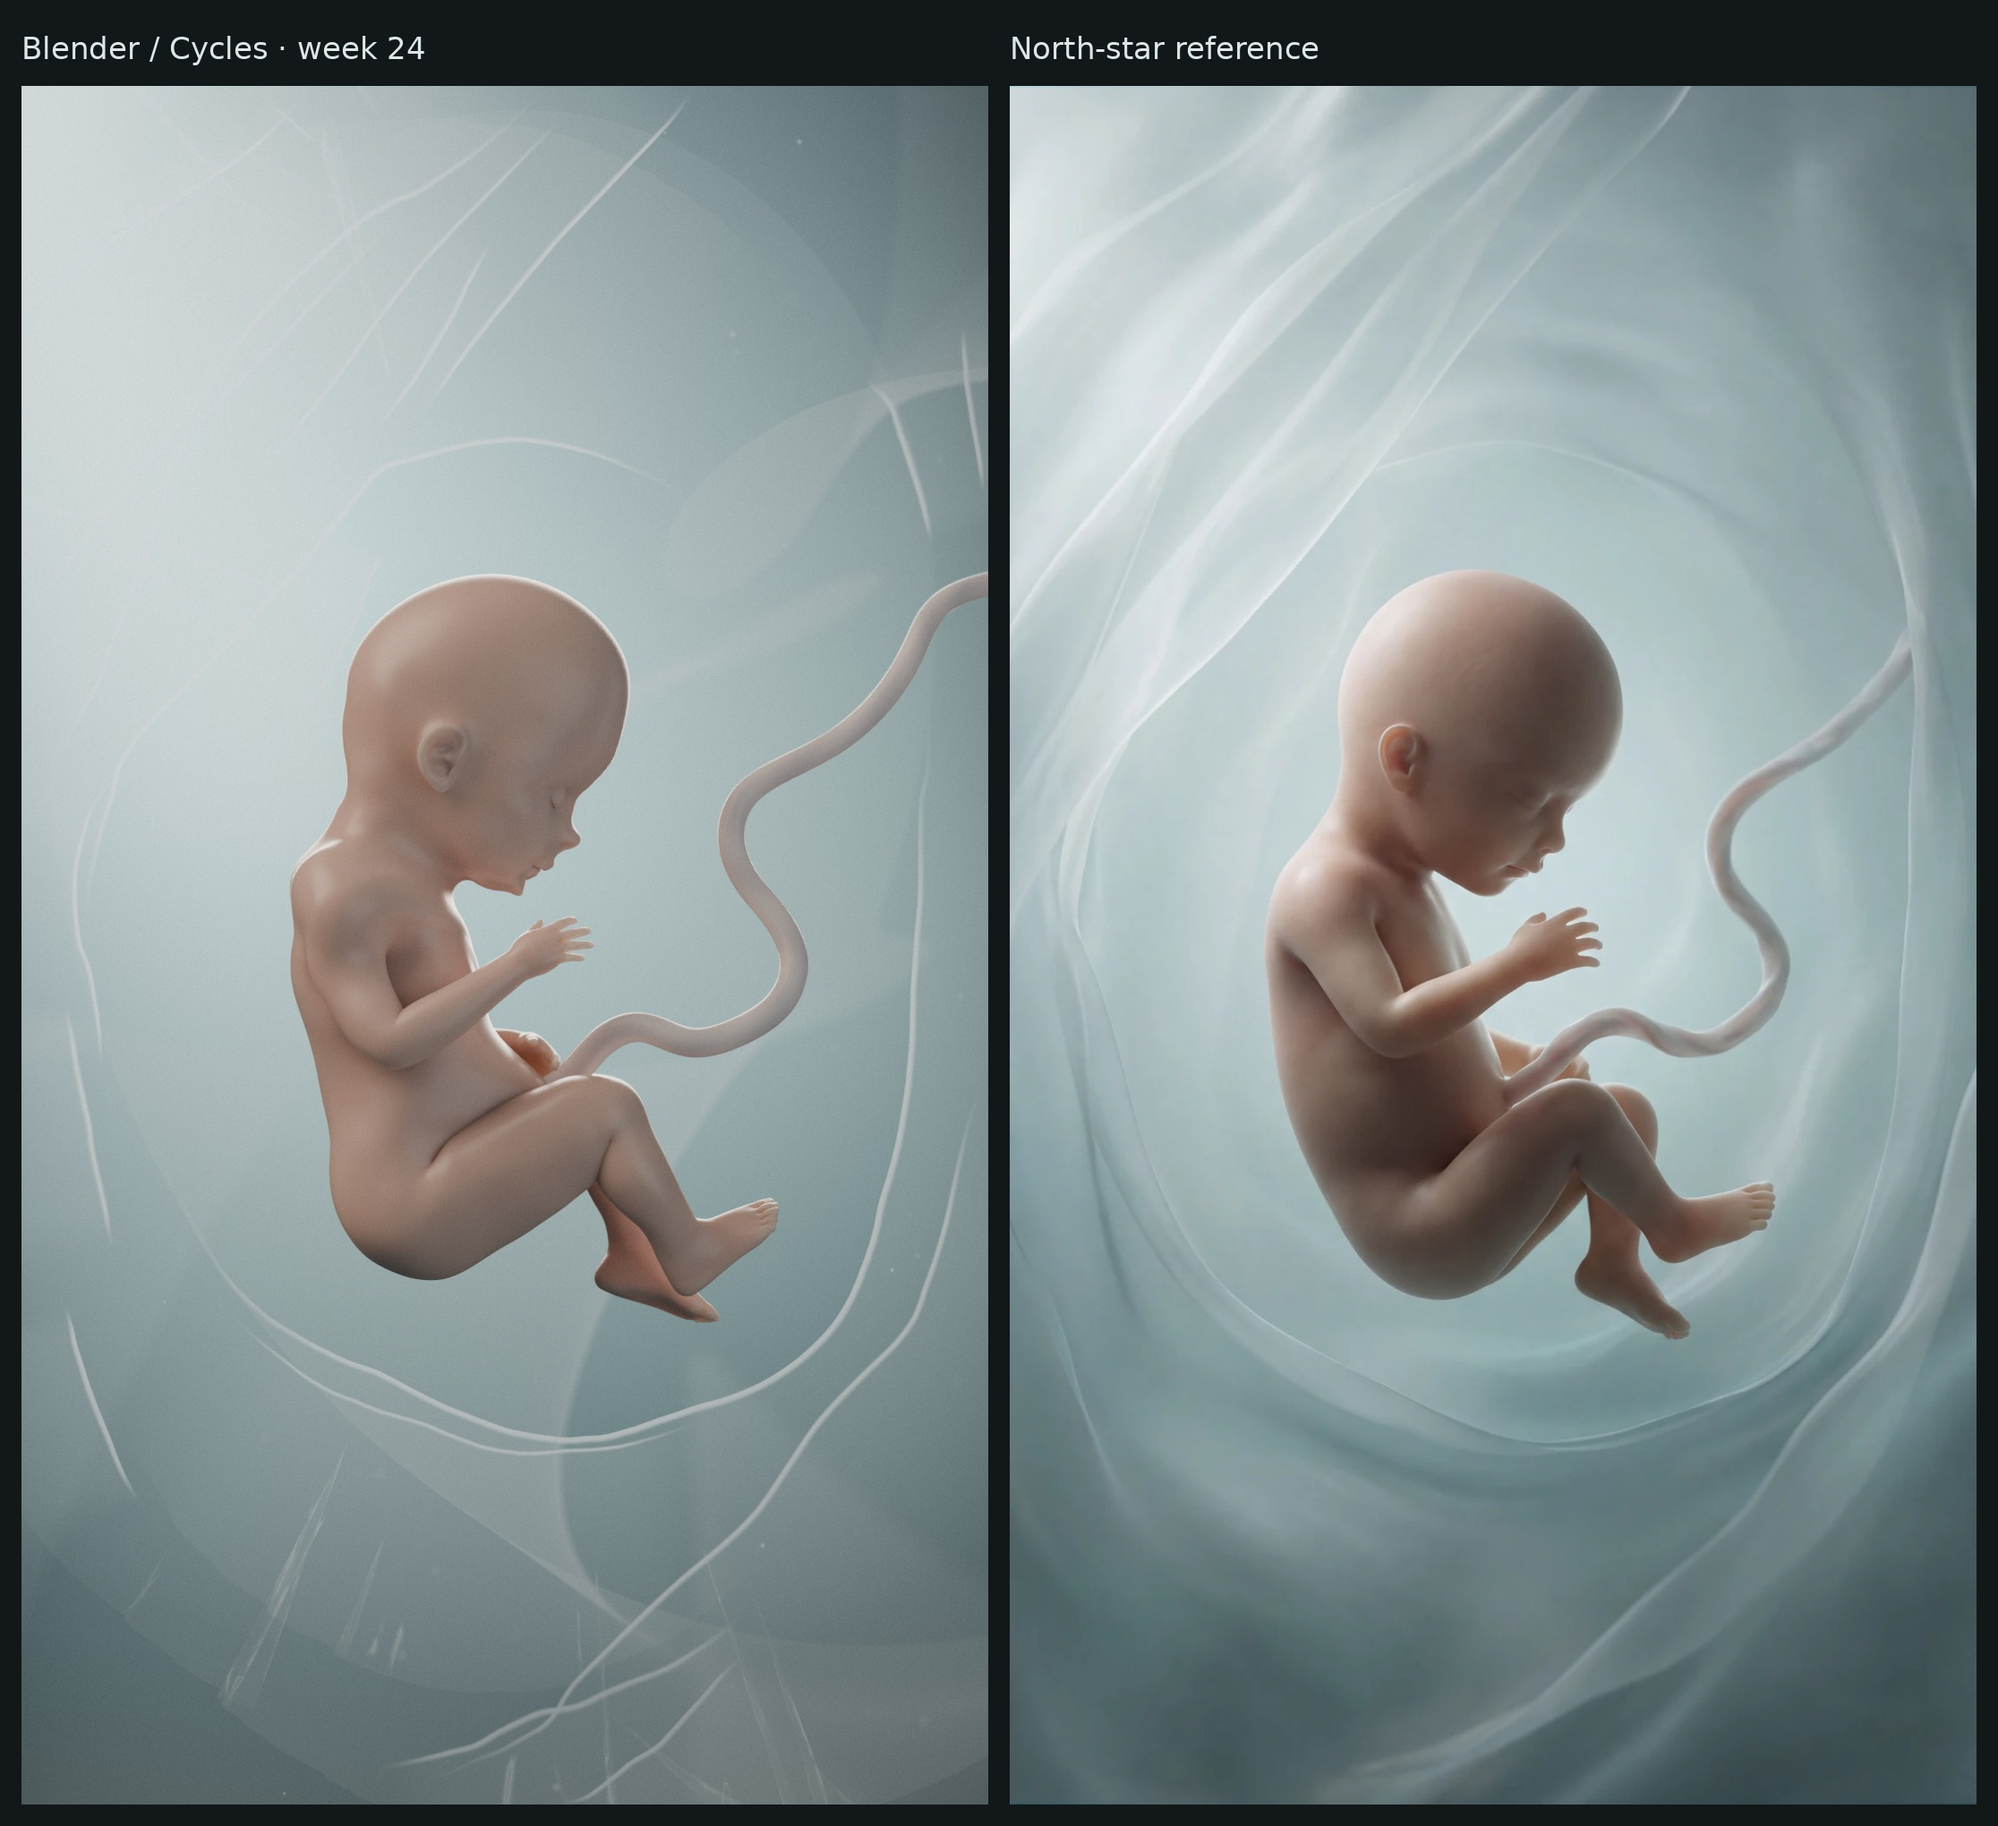
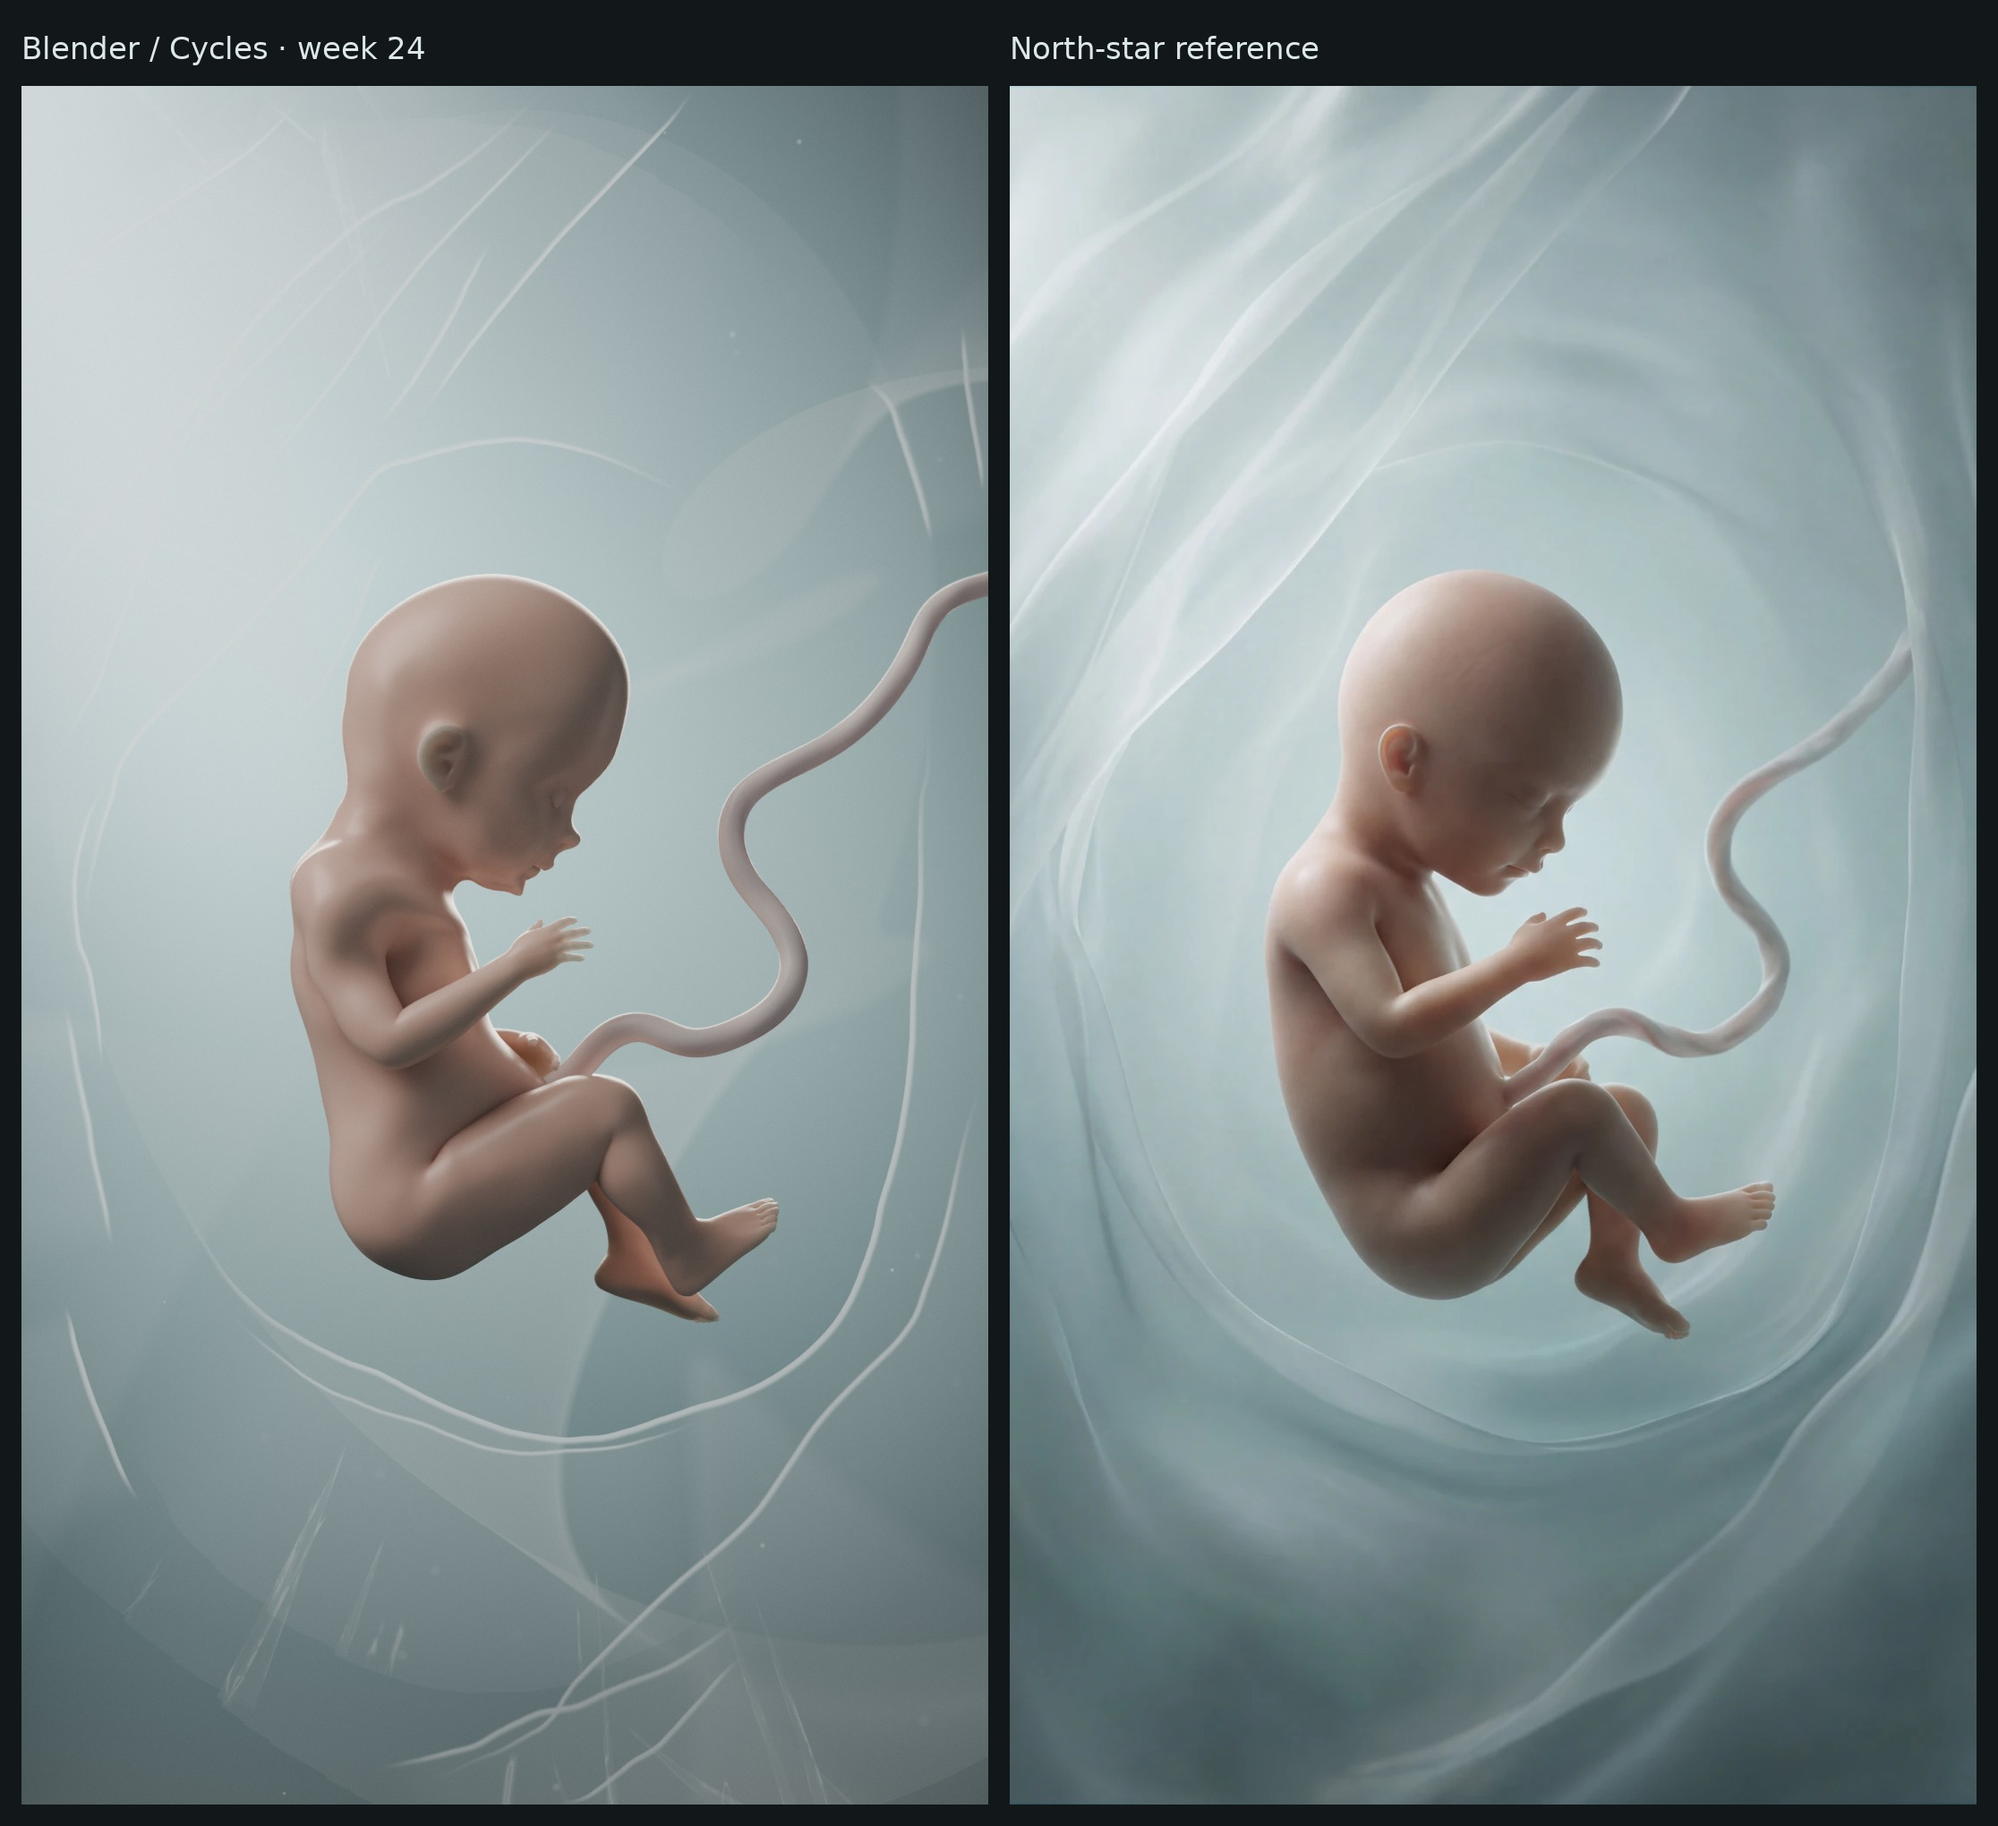
Fetal Growth Explorer: reference skin tone and contrast
Measured against the reference fetus (traced mask): key 90 W neutral-warm,
fill 3 W, ambient 0.14 for the reference's wider tonal range (p10/p90
88/176 vs 74/186); less red subsurface bleed and a less saturated albedo
(G/R 0.799 vs 0.80); low-frequency rose/beige mottling in rest space;
lighter grain.

Claude-Session: https://claude.ai/code/session_012GPESLoAzkgxi7MKnnsx3V

diff --git a/fetal-growth-explorer/blender/scripts/fge/lookdev.py b/fetal-growth-explorer/blender/scripts/fge/lookdev.py
@@ -89,8 +89,8 @@ def make_world(scene) -> None:
     nt.nodes.clear()
     out = nt.nodes.new("ShaderNodeOutputWorld")
     bg = nt.nodes.new("ShaderNodeBackground")
-    bg.inputs["Color"].default_value = rgba("#9DB3B5")
-    bg.inputs["Strength"].default_value = 0.16
+    bg.inputs["Color"].default_value = rgba("#9DB8BC")
+    bg.inputs["Strength"].default_value = 0.14  # the amniotic surround tints the shadow side teal, as in the reference
     nt.links.new(bg.outputs["Background"], out.inputs["Surface"])
 
 
@@ -114,9 +114,9 @@ def make_lights(target=(0.0, 0.0, 0.02)):
     # crown and back read bright and the face, turned down and away, falls
     # into soft shade, the reference's light balance. Size 1.6 m keeps the
     # terminator across the skull soft.
-    area_light("LGT_Key", (-1.13, -0.30, 1.13), target, "#FFDCC2", 70.0, 1.6, col=col)
+    area_light("LGT_Key", (-1.13, -0.30, 1.13), target, "#FFE6D8", 90.0, 1.6, col=col)
     # Neutral fill low from the front-right lifts the face and belly.
-    area_light("LGT_Fill", (0.90, -1.00, 0.10), target, "#E2E4DF", 14.0, 1.4, col=col)
+    area_light("LGT_Fill", (0.90, -1.00, 0.10), target, "#E2E4DF", 3.0, 1.4, col=col)
     # Soft back light straight behind: a thin environment-like edge all round,
     # and SSS glow through ears, fingers and toes.
     area_light("LGT_Rim", (0.05, 1.00, 0.30), target, "#FFE2D0", 80.0, 0.8, col=col)
@@ -183,9 +183,9 @@ def skin_material(name="MAT_Skin", translucency: float = 1.0, vessels: float = 1
     ao.samples = 8
     ramp = nt.nodes.new("ShaderNodeValToRGB")
     ramp.color_ramp.elements[0].position = 0.25
-    ramp.color_ramp.elements[0].color = rgba("#B08A80")
+    ramp.color_ramp.elements[0].color = rgba("#B3958D")
     ramp.color_ramp.elements[1].position = 1.0
-    ramp.color_ramp.elements[1].color = rgba("#DAB8AE")
+    ramp.color_ramp.elements[1].color = rgba("#DDC4BC")
     nt.links.new(ao.outputs["AO"], ramp.inputs["Fac"])
     # Faint vessel network (Voronoi cell edges, broken up by noise), strongest on the scalp.
     rest = _rest_coords(nt)
@@ -231,10 +231,25 @@ def skin_material(name="MAT_Skin", translucency: float = 1.0, vessels: float = 1
     tint.blend_type = "MIX"
     tint.inputs["B"].default_value = rgba("#A8707A")
     nt.links.new(m3.outputs["Value"], tint.inputs["Factor"])
-    nt.links.new(ramp.outputs["Color"], tint.inputs["A"])
+    # soft mottling: large, low-contrast patches between a cooler rose and a warmer beige
+    mottle = nt.nodes.new("ShaderNodeTexNoise")
+    mottle.inputs["Scale"].default_value = 18.0
+    mottle.inputs["Detail"].default_value = 2.0
+    nt.links.new(rest, mottle.inputs["Vector"])
+    mot_mix = nt.nodes.new("ShaderNodeMix")
+    mot_mix.data_type = "RGBA"
+    mot_mix.blend_type = "OVERLAY"
+    mot_mix.inputs["Factor"].default_value = 0.35
+    nt.links.new(ramp.outputs["Color"], mot_mix.inputs["A"])
+    mot_ramp = nt.nodes.new("ShaderNodeValToRGB")
+    mot_ramp.color_ramp.elements[0].color = rgba("#B8888E")
+    mot_ramp.color_ramp.elements[1].color = rgba("#D8B49A")
+    nt.links.new(mottle.outputs["Fac"], mot_ramp.inputs["Fac"])
+    nt.links.new(mot_ramp.outputs["Color"], mot_mix.inputs["B"])
+    nt.links.new(mot_mix.outputs["Result"], tint.inputs["A"])
     nt.links.new(tint.outputs["Result"], bsdf.inputs["Base Color"])
     bsdf.inputs["Subsurface Weight"].default_value = 0.85
-    bsdf.inputs["Subsurface Radius"].default_value = (1.0, 0.55, 0.4)  # less red bleed: the reference skin is pink-beige, not orange
+    bsdf.inputs["Subsurface Radius"].default_value = (1.0, 0.7, 0.55)  # less red bleed: the reference skin is pink-beige, not orange
     bsdf.inputs["Subsurface Scale"].default_value = 0.004 * translucency
     bsdf.inputs["Subsurface IOR"].default_value = 1.38
     bsdf.inputs["Subsurface Anisotropy"].default_value = 0.4

diff --git a/fetal-growth-explorer/blender/scripts/post.py b/fetal-growth-explorer/blender/scripts/post.py
@@ -31,7 +31,7 @@ LOOK = {
     "shadow_tint": (0.30, 0.40, 0.41),
     "contrast": 1.0,
     "saturation": 0.95,
-    "grain": 0.010,
+    "grain": 0.006,
 }
 
 
